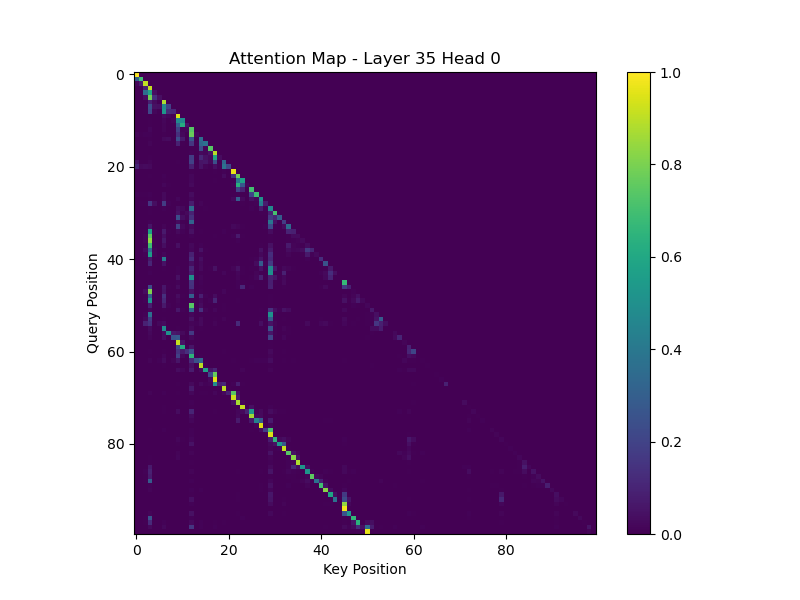
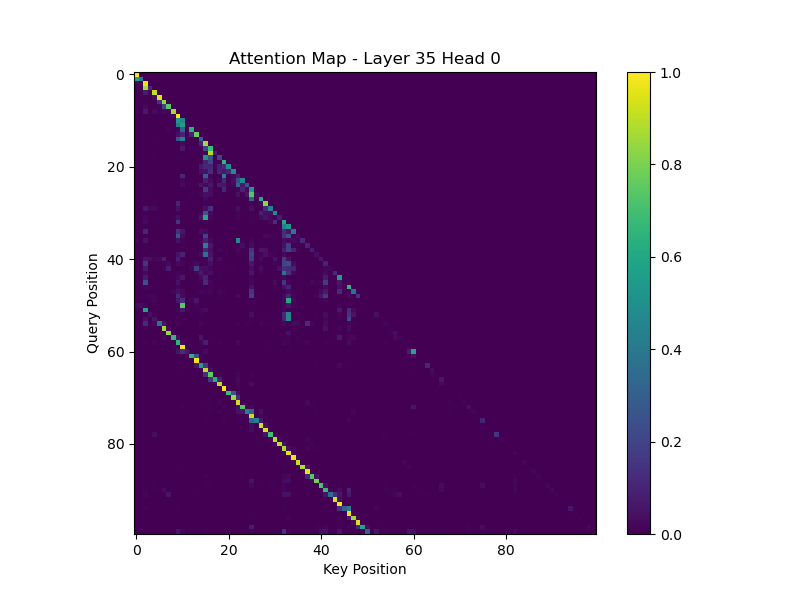
add maps for more heads

diff --git a/circuit/ablate_heads.py b/circuit/ablate_heads.py
@@ -6,6 +6,8 @@ from transformer_lens import HookedTransformer
 from argparse import ArgumentParser
 import jsonlines
 from utils import combine_params, get_data, load_heads, render_prompt, get_gold_ans
+import matplotlib.pyplot as plt
+import os
 
 def set_global_seed(seed: int):
     """Set all relevant random seeds for reproducibility."""
@@ -39,6 +41,33 @@ def check_logits_for_next_token(model: HookedTransformer, tokens, topk: int = 5)
         token_str = model.to_string(idx.unsqueeze(0))
         print(f"  Token: {repr(token_str)} | Logit: {float(val):.4f}")
     print()
+
+def plot_attention_map(attention_data, tokens, output_dir, layer, head):
+    """Plot and save attention map for the specified layer and head."""
+    plt.figure(figsize=(8, 8))
+    plt.imshow(attention_data, cmap='viridis', aspect='auto')
+    plt.colorbar()
+    token_labels = [model.to_string([t]) for t in tokens]
+    plt.xticks(ticks=np.arange(len(token_labels)), labels=token_labels, rotation=90)
+    plt.yticks(ticks=np.arange(len(token_labels)), labels=token_labels)
+    plt.title(f"Attention from token 'w' to next token\nLayer {layer}, Head {head}")
+    
+    if not os.path.exists(output_dir):
+        os.makedirs(output_dir)
+    
+    attention_plot_path = os.path.join(output_dir, f"attention_layer{layer}_head{head}.png")
+    plt.tight_layout()
+    plt.savefig(attention_plot_path)
+    plt.close()
+
+def capture_attention_hook(layer: int, head: int):
+    """Hook to capture attention data for a specific head."""
+    def hook(value, hook):
+        # Capture attention data from hook_values (shape: [batch_size, num_heads, seq_len, seq_len])
+        attention_data = value # Attention for all heads
+        return attention_data
+    return hook
+
 
 parser = ArgumentParser()
 parser.add_argument("-m", "--model", dest="model", help="choose model")
@@ -74,6 +103,8 @@ print(f"Heads to ablate: {heads_to_ablate}")
 print(f"Random seed: {args.seed}, top_k: {args.top_k}")
 
 answers = []
+output_dir = 'attention_plots'
+
 for example in data:
     if args.version == 'non-instruct':
         max_new = 2
@@ -83,13 +114,26 @@ for example in data:
     system_prompt, task_prompt = render_prompt(system_path, task_path, example['input'])
     prompt = template.render(system=system_prompt, user_input=task_prompt)
     tokens = model.to_tokens(prompt)
-    check_logits_for_next_token(model, tokens, args.top_k)
+    token_strs = model.to_string(tokens[0])
+    
+    try:
+        w_index = token_strs.index('w')
+        next_token_index = w_index + 1
+    except ValueError:
+        print(f"Token 'w' not found in the input: {token_strs}")
+        continue
+    
+    print(f"Found 'w' at index {w_index}, next token at index {next_token_index}")
 
     hooks = [
         (f'blocks.{layer}.attn.hook_z', ablate_head_hook(layer, head))
         for layer, head in heads_to_ablate
     ]
-
+    capture_hooks = [
+        (f'blocks.{layer}.attn.hook_pattern', capture_attention_hook(layer, head))
+        for layer in range(model.cfg.n_layers) for head in range(model.cfg.n_heads)
+    ]
+    
     original_loss = model(tokens, return_type="loss")
     ablated_loss = model.run_with_hooks(
         tokens, 
@@ -100,7 +144,8 @@ for example in data:
     print(f"Original Loss: {original_loss.item():.3f}")
     print(f"Ablated Loss: {ablated_loss.item():.3f}")
 
-    with model.hooks(fwd_hooks=hooks):
+    attention_scores = {}
+    with model.hooks(fwd_hooks=hooks+capture_hooks):
         generated_tokens = model.generate(
                 tokens,
                 max_new_tokens=max_new,
@@ -109,6 +154,19 @@ for example in data:
                 top_k=args.top_k,
                 temperature=0, 
             )
+
+        for layer in range(model.cfg.n_layers):
+            for head in range(model.cfg.n_heads):
+                # Access the captured attention data from the hook
+                attention_data = model.hooks[f'blocks.{layer}.attn.hook_pattern'][0, :, head, :].detach().cpu().numpy()
+                attention_score = attention_data[w_index, next_token_index]  # Focus on attention from 'w' to the next token
+                attention_scores[(layer, head)] = attention_score
+  
+        sorted_attention_heads = sorted(attention_scores.items(), key=lambda x: x[1], reverse=True)[:10]
+        for (layer, head), score in sorted_attention_heads:
+            print(f"Saving attention map for Layer {layer}, Head {head} with score {score:.4f}")
+            attention_data = model.attn_data[layer, head, w_index, next_token_index]
+            plot_attention_map(attention_data, tokens, output_dir, layer, head)
 
     new_tokens = generated_tokens[0, tokens.shape[-1]:]
     generated_text = model.to_string(new_tokens)

diff --git a/circuit/evaluate.py b/circuit/evaluate.py
@@ -42,8 +42,8 @@ def clean_results(results):
     :return: arr 
     """
     for line in results:
-        #line['answer'] = line['full_answer'][0]
-        line['answer'] = extract_answer(line)
+        line['answer'] = line['full_answer'][0]
+        #line['answer'] = extract_answer(line)
     return results
 
 
@@ -62,7 +62,7 @@ def get_accuracy(results):
 
 #llama_after_anti = clean_results(get_data("results/llama_non-instruct_after_random-all_100.jsonl"))
 #llama_before_anti = clean_results(get_data("results/llama_non-instruct_before_anti-induction.jsonl"))
-llama_after = clean_results(get_data("results/gemma_instruct_after_induction_20.jsonl"))
+llama_after = clean_results(get_data("results/llama_non-instruct_after_random-mid_20.jsonl"))
 #llama_before = clean_results(get_data("results/llama_non-instruct_before_induction.jsonl"))
 
 #llama_instruct_after_anti = [extract_answer(ans) for ans in clean_results(get_data("results/llama_instruct_after_anti-induction.jsonl"))]
